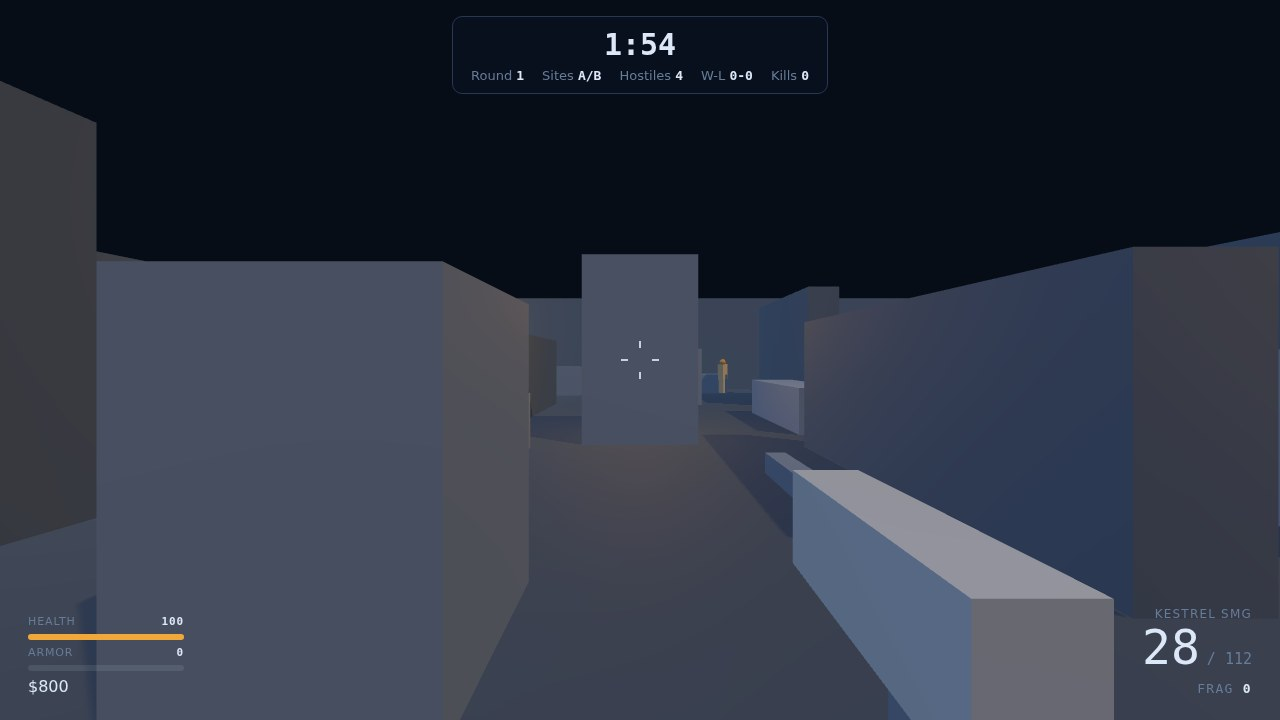
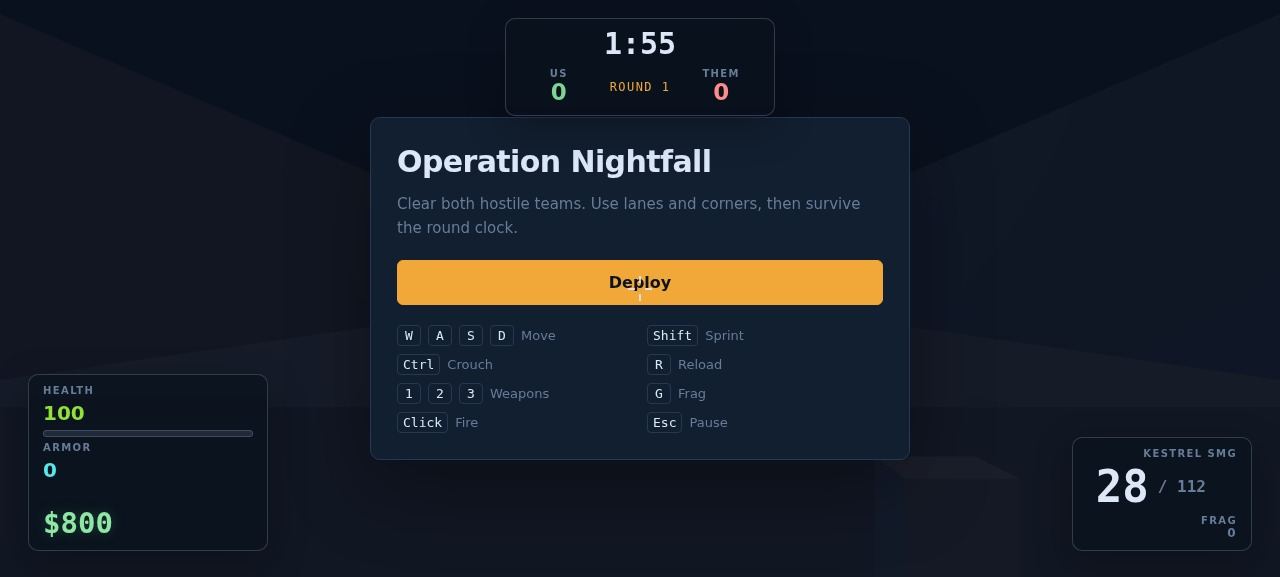
fix hud TDZ + weapon node, module init order

diff --git a/game/src/hud.js b/game/src/hud.js
@@ -359,8 +359,8 @@ function buildShell() {
   const ammoReserve = el('span', 'night-ammo-reserve', '/ 112');
   const reloadRing = el('span', 'night-reload');
   ammo.append(ammoMag, ammoReserve, reloadRing);
-  grenades.append(el('span', 'night-label', 'Frag'), el('b', '', '0'));
   const grenades = el('div', 'night-grenades');
+  grenades.append(el('span', 'night-label', 'Frag'), el('b', '', '0'));
   weapon.append(weaponName, ammo, grenades);
 
   const feed = el('div', 'night-feed');
@@ -381,7 +381,7 @@ function buildShell() {
   overlay.append(panel);
 
   root.append(style, damage, crosshair, hitmarker, center, feed, vitals, weapon, overlay);
-  return { root, timer, scoreUs, scoreThem, scoreRound, healthValue, healthBar, armorValue, armorBar, money, weaponName, ammo, ammoMag, ammoReserve, reloadRing, grenades, feed, crosshair, hitmarker, damage, overlay, title, subtitle, copy, action, buyGrid };
+  return { root, timer, scoreUs, scoreThem, scoreRound, healthValue, healthBar, armorValue, armorBar, money, weapon, weaponName, ammo, ammoMag, ammoReserve, reloadRing, grenades, feed, crosshair, hitmarker, damage, overlay, title, subtitle, copy, action, buyGrid };
 }
 
 function setBar(bar, ratio, color) {

diff --git a/game/src/main.js b/game/src/main.js
@@ -33,8 +33,8 @@ const grenades = createGrenades(scene, world.colliders);
 const input = createInput(renderer.domElement, (locked) => {
   if (!locked && game.rounds.state.phase === 'live') setOverlay('paused');
 });
-const hud = createHud();
 const game = { rounds: createRounds(), botFire: [], deathTimer: 0, triggerReady: true };
+const hud = createHud();
 
 const shotRay = new THREE.Raycaster();
 const botRay = new THREE.Raycaster();
@@ -297,3 +297,4 @@ hud.onBuy((itemId) => {
 
 beginBuy();
 render();
+
